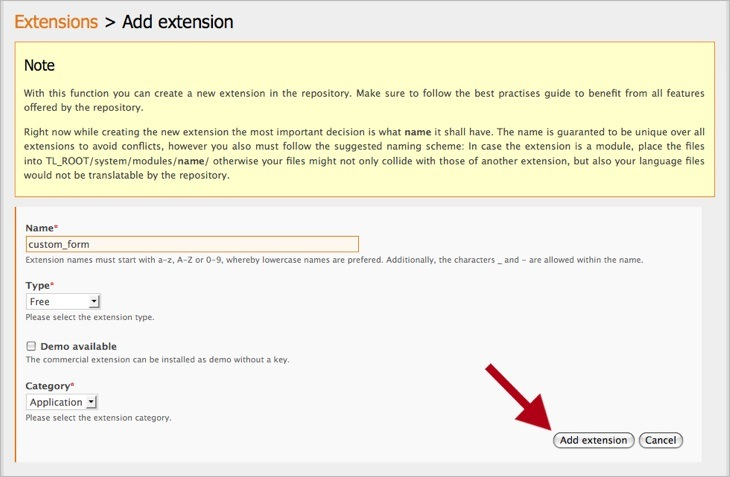
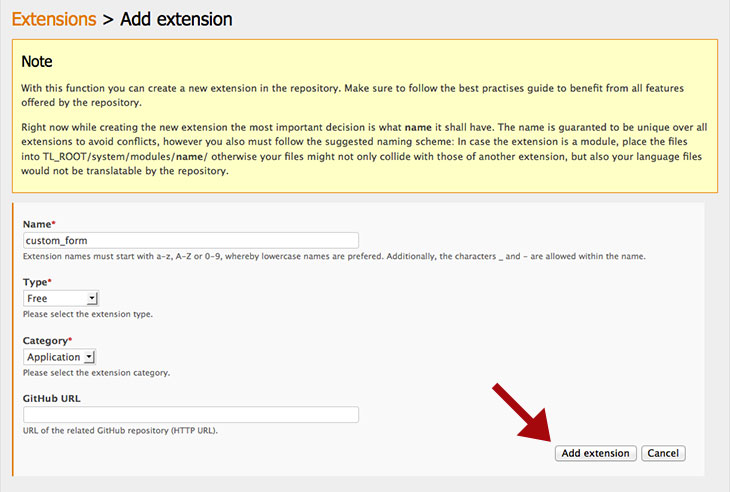
Update chapter 08 (Extension repository)
Add new categories.
Add GitHub import in the Extension Repository.
Add new images (github-import.jpg + github-import-tag.jpg).
Update images (add-extension.jpg + edit-files.jpg).

Changed region(s): [[0.0, 0.0, 1.0, 1.0], [0.6932, 0.8218, 0.9644, 0.9392], [0.663, 0.7631, 0.6932, 0.7925]]

diff --git a/manual/en/08-Extension-Repository.md b/manual/en/08-Extension-Repository.md
@@ -27,20 +27,28 @@ The following categories are currently available:
   <td>The extension is an autonomous application.</td>
 </tr>
 <tr>
-  <td>Utility</td>
-  <td>The extension is a utility program for the back end.</td>
+  <td>Plugin</td>
+  <td>The extension is a PHP or JavaScript library.</td>
 </tr>
 <tr>
-  <td>Template</td>
-  <td>The extension is a template.</td>
+  <td>Theme</td>
+  <td>The extension is a theme for the back end.</td>
+</tr>
+<tr>
+  <td>Utility</td>
+  <td>The extension is a utility program for the back end.</td>
 </tr>
 <tr>
   <td>Widget</td>
   <td>The extension is a form widget.</td>
 </tr>
 <tr>
-  <td>Plugin</td>
-  <td>The extension is a PHP or JavaScript library.</td>
+  <td>Translation</td>
+  <td>The extension is a translation for a version of Contao.</td>
+</tr>
+<tr>
+  <td>Bundle</td>
+  <td>A set of extensions that can be installed simultaneously.</td>
 </tr>
 <tr>
   <td>Other</td>
@@ -96,6 +104,15 @@ correct after the upload.
 
 ![](https://raw.github.com/contao/docs/3.0/manual/en/images/edit-files.jpg)
 
+## Adding files from a GitHub repository
+
+The files can also be imported from a GitHub repository. It is required that the release is tagged and that the tag has been pushed to the central GitHub repository. In the extension settings, you have to enter the HTTP URL of the GitHub repository.
+
+![](https://raw.github.com/contao/docs/3.0/manual/en/images/github-import.jpg)
+
+You can provide a tag and the script will download the .zip file of the tag and extract the files locally. The files are then available just like after a manual upload.
+
+![](https://raw.github.com/contao/docs/3.0/manual/en/images/github-import-tag.jpg)
 
 ## Adding translations
 
